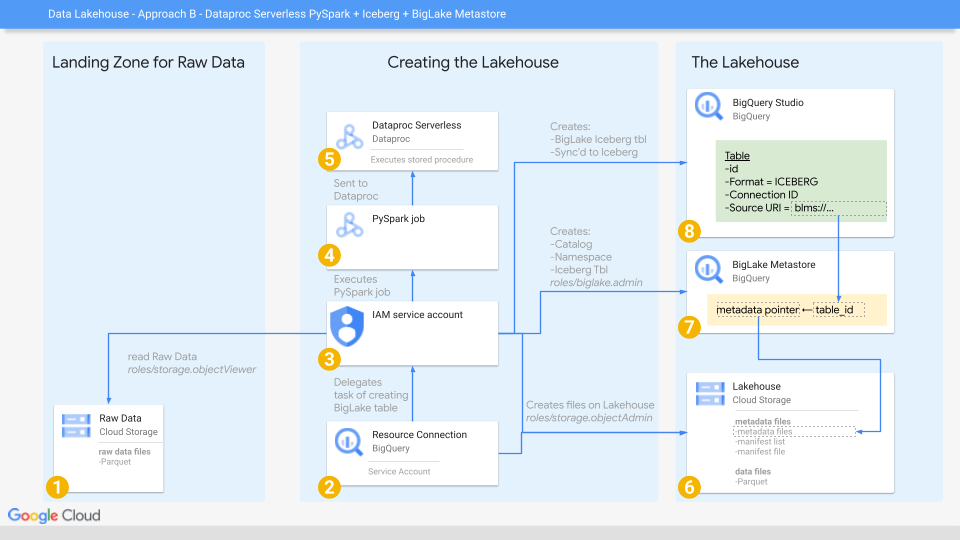
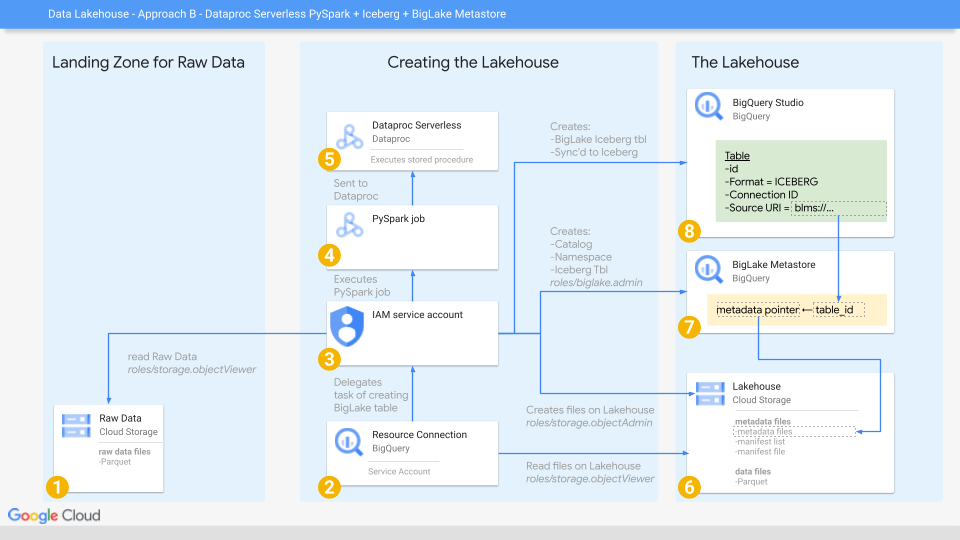
cloud resource connection only needs Viewer permission on GCS

Changed region(s): [[0.5312, 0.6222, 0.7188, 0.8296], [0.5312, 0.8593, 0.6875, 0.9185]]

diff --git a/README.md b/README.md
@@ -374,6 +374,7 @@ the role `BigQuery Data Owner` on the Dataset `BIGQUERY_DATASET`.
 This unfortunatley cannot be done via command line tools easily.
 
 Enable our Cloud Resource connection to carry out operations.
+The Cloud Resource connection only needs read access to the GCS bucket as per [docs](https://cloud.google.com/bigquery/docs/create-cloud-resource-connection#access-storage)
 ```
 gcloud projects add-iam-policy-binding ${PROJECT_ID} \
   --member="serviceAccount:${BIGLAKE_SA}" \
@@ -381,7 +382,7 @@ gcloud projects add-iam-policy-binding ${PROJECT_ID} \
 
 gcloud storage buckets add-iam-policy-binding ${GCS_BUCKET_LAKEHOUSE} \
   --member="serviceAccount:${BIGLAKE_SA}" \
-  --role=roles/storage.objectAdmin
+  --role=roles/storage.objectViewer
 ```
 
 Use the BigQuery UI to allow the BigQuery Cloud Resource service account `BIGLAKE_SA` to have
